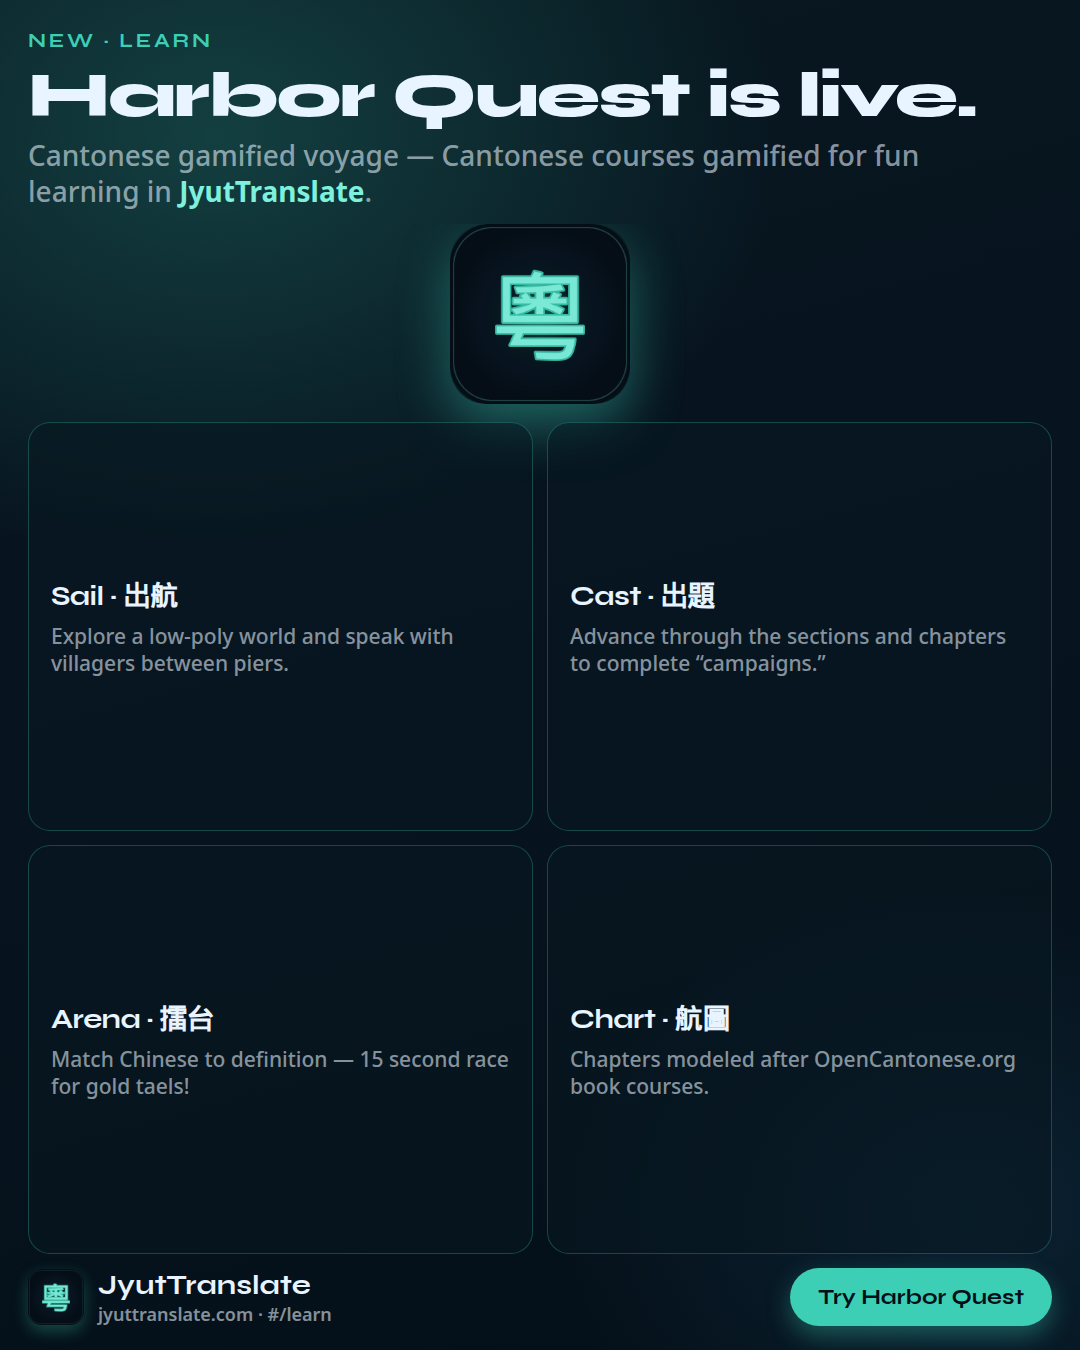
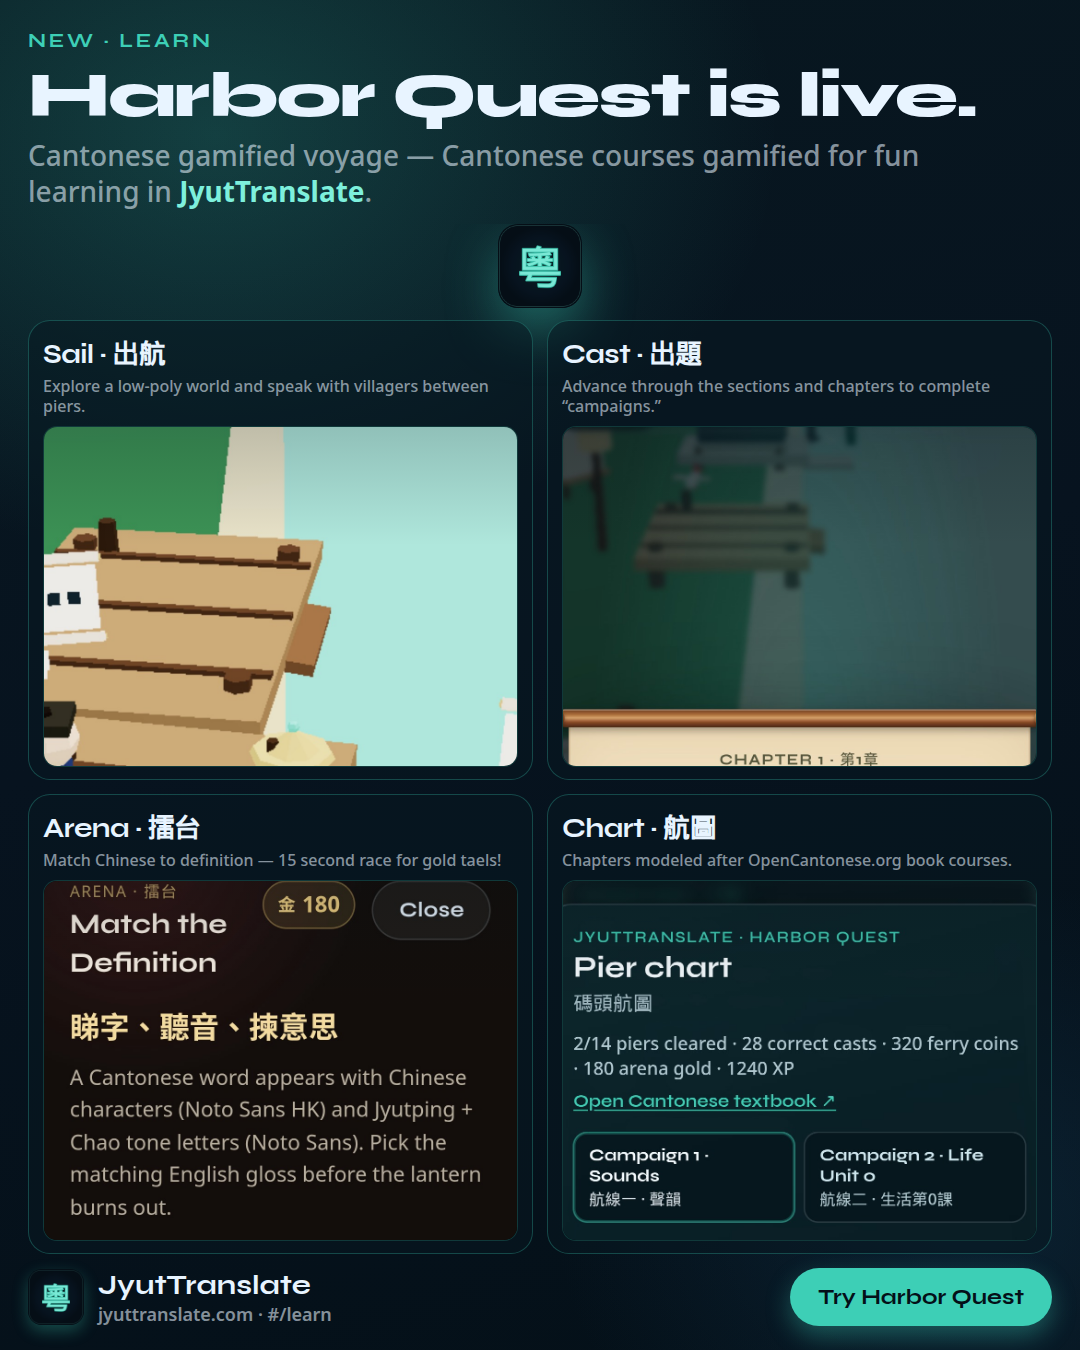
Harbor Quest cover: add UI peeks into Sail/Cast/Arena/Chart cards
Drop real screenshot crops into each feature card so the cover grid
reads denser and shows the product instead of empty card space.

diff --git a/docs/social/ig-posts/harbor-quest.css b/docs/social/ig-posts/harbor-quest.css
@@ -184,9 +184,9 @@
 .hq-ig--cover .hq-ig__stage,
 .hq-ig--end .hq-ig__stage {
   flex-direction: column;
-  justify-content: center;
+  justify-content: flex-start;
   align-items: stretch;
-  gap: 18px;
+  gap: 12px;
   padding-top: 0;
 }
 
@@ -221,6 +221,12 @@
   border-radius: 56px;
 }
 
+.hq-ig__mark--cover {
+  width: 84px;
+  height: 84px;
+  border-radius: 20px;
+}
+
 .hq-ig__feature-grid {
   display: grid;
   grid-template-columns: 1fr 1fr;
@@ -232,30 +238,106 @@
 }
 
 .hq-ig__feature {
-  padding: 24px 22px;
+  padding: 22px 20px;
   border-radius: 22px;
   border: 1px solid color-mix(in srgb, var(--jade) 28%, transparent);
   background: color-mix(in srgb, var(--harbor-deep) 55%, transparent);
   display: flex;
   flex-direction: column;
   justify-content: center;
-  min-height: 150px;
+  min-height: 0;
+  overflow: hidden;
 }
 
 .hq-ig__feature h3 {
   font-family: var(--font-display);
-  font-size: 28px;
-  margin: 0 0 10px;
+  font-size: 26px;
+  margin: 0 0 8px;
   color: var(--ink);
   letter-spacing: -0.02em;
 }
 
 .hq-ig__feature p {
   margin: 0;
-  font-size: 21px;
-  line-height: 1.3;
+  font-size: 18px;
+  line-height: 1.28;
   color: var(--ink-mute);
   font-weight: 500;
+}
+
+/* Cover cards: copy on top, wide UI peek filling the rest */
+.hq-ig--cover .hq-ig__feature {
+  position: relative;
+  display: flex;
+  flex-direction: column;
+  justify-content: flex-start;
+  gap: 10px;
+  padding: 14px 14px 12px;
+  min-height: 280px;
+}
+
+.hq-ig__feature-copy {
+  display: flex;
+  flex-direction: column;
+  justify-content: flex-start;
+  min-width: 0;
+  flex: 0 0 auto;
+  z-index: 1;
+}
+
+.hq-ig--cover .hq-ig__feature h3 {
+  font-size: 27px;
+  margin: 0 0 6px;
+}
+
+.hq-ig--cover .hq-ig__feature p {
+  font-size: 16px;
+  line-height: 1.25;
+}
+
+.hq-ig__feature-shot {
+  border-radius: 14px;
+  overflow: hidden;
+  border: 1px solid color-mix(in srgb, var(--jade) 22%, transparent);
+  background: #041018;
+  box-shadow: inset 0 0 0 1px color-mix(in srgb, #000 35%, transparent);
+  flex: 1 1 auto;
+  min-height: 190px;
+  width: 100%;
+  position: relative;
+}
+
+.hq-ig__feature-shot::after {
+  content: '';
+  position: absolute;
+  inset: 0;
+  background: linear-gradient(180deg, color-mix(in srgb, #041018 18%, transparent), transparent 35%);
+  pointer-events: none;
+}
+
+.hq-ig__feature-shot img {
+  width: 100%;
+  height: 100%;
+  object-fit: cover;
+  object-position: center 18%;
+  display: block;
+  transform: scale(1.14);
+}
+
+.hq-ig__feature-shot--sail img {
+  object-position: 40% 30%;
+}
+
+.hq-ig__feature-shot--cast img {
+  object-position: center 6%;
+}
+
+.hq-ig__feature-shot--arena img {
+  object-position: center 36%;
+}
+
+.hq-ig__feature-shot--chart img {
+  object-position: center 10%;
 }
 
 .hq-ig--end .hq-ig__brand-name {

diff --git a/docs/social/ig-posts/harbor-quest-01-cover.html b/docs/social/ig-posts/harbor-quest-01-cover.html
@@ -26,28 +26,48 @@
         </div>
         <div class="hq-ig__stage">
           <img
-            class="hq-ig__mark"
+            class="hq-ig__mark hq-ig__mark--cover"
             src="./source/harbor-quest/pwa-512.png"
-            width="200"
-            height="200"
+            width="140"
+            height="140"
             alt=""
           />
           <div class="hq-ig__feature-grid">
             <div class="hq-ig__feature">
-              <h3>Sail · 出航</h3>
-              <p>Explore a low-poly world and speak with villagers between piers.</p>
+              <div class="hq-ig__feature-copy">
+                <h3>Sail · 出航</h3>
+                <p>Explore a low-poly world and speak with villagers between piers.</p>
+              </div>
+              <div class="hq-ig__feature-shot hq-ig__feature-shot--sail">
+                <img src="./source/harbor-quest/01-play-lesson.jpg" alt="" />
+              </div>
             </div>
             <div class="hq-ig__feature">
-              <h3>Cast · 出題</h3>
-              <p>Advance through the sections and chapters to complete “campaigns.”</p>
+              <div class="hq-ig__feature-copy">
+                <h3>Cast · 出題</h3>
+                <p>Advance through the sections and chapters to complete “campaigns.”</p>
+              </div>
+              <div class="hq-ig__feature-shot hq-ig__feature-shot--cast">
+                <img src="./source/harbor-quest/02-chapter-scroll.jpg" alt="" />
+              </div>
             </div>
             <div class="hq-ig__feature">
-              <h3>Arena · 擂台</h3>
-              <p>Match Chinese to definition — 15 second race for gold taels!</p>
+              <div class="hq-ig__feature-copy">
+                <h3>Arena · 擂台</h3>
+                <p>Match Chinese to definition — 15 second race for gold taels!</p>
+              </div>
+              <div class="hq-ig__feature-shot hq-ig__feature-shot--arena">
+                <img src="./source/harbor-quest/03-arena.jpg" alt="" />
+              </div>
             </div>
             <div class="hq-ig__feature">
-              <h3>Chart · 航圖</h3>
-              <p>Chapters modeled after OpenCantonese.org book courses.</p>
+              <div class="hq-ig__feature-copy">
+                <h3>Chart · 航圖</h3>
+                <p>Chapters modeled after OpenCantonese.org book courses.</p>
+              </div>
+              <div class="hq-ig__feature-shot hq-ig__feature-shot--chart">
+                <img src="./source/harbor-quest/05-pier-chart.jpg" alt="" />
+              </div>
             </div>
           </div>
         </div>
